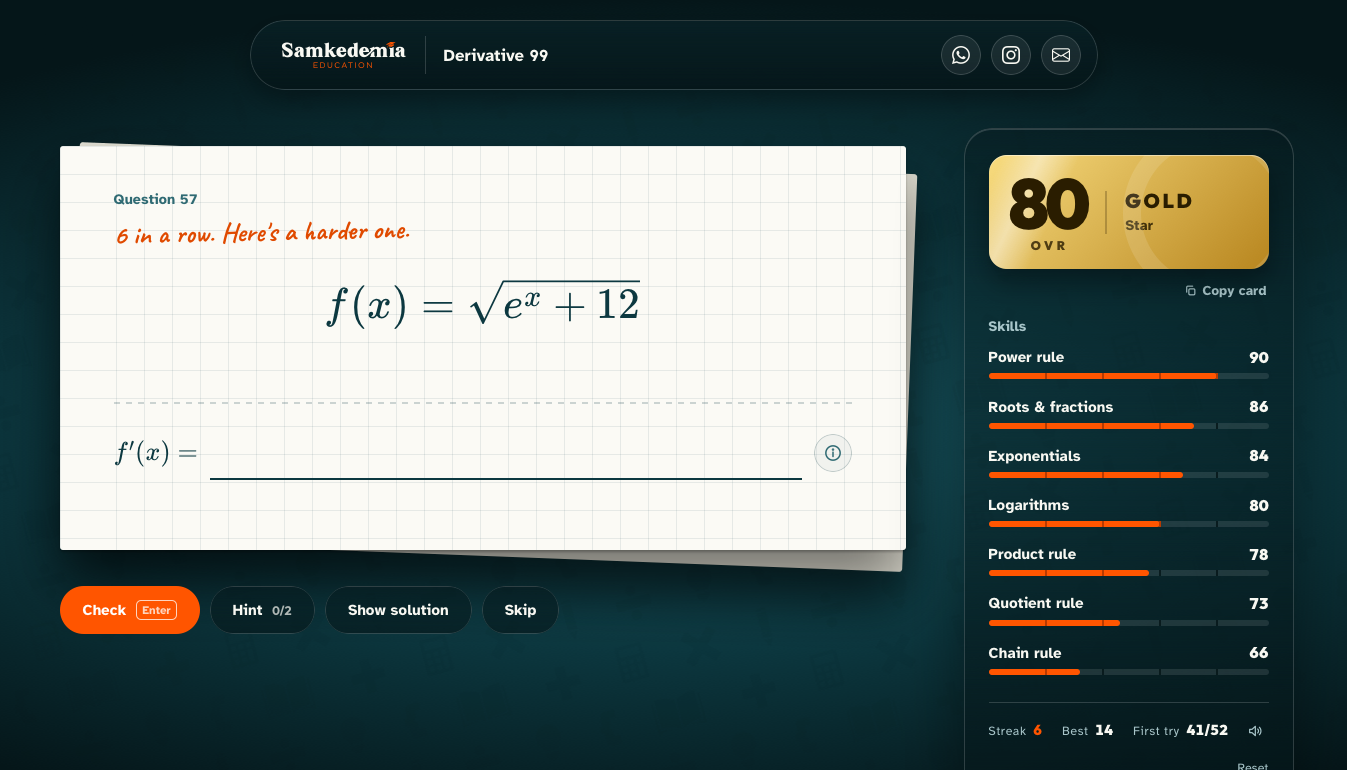
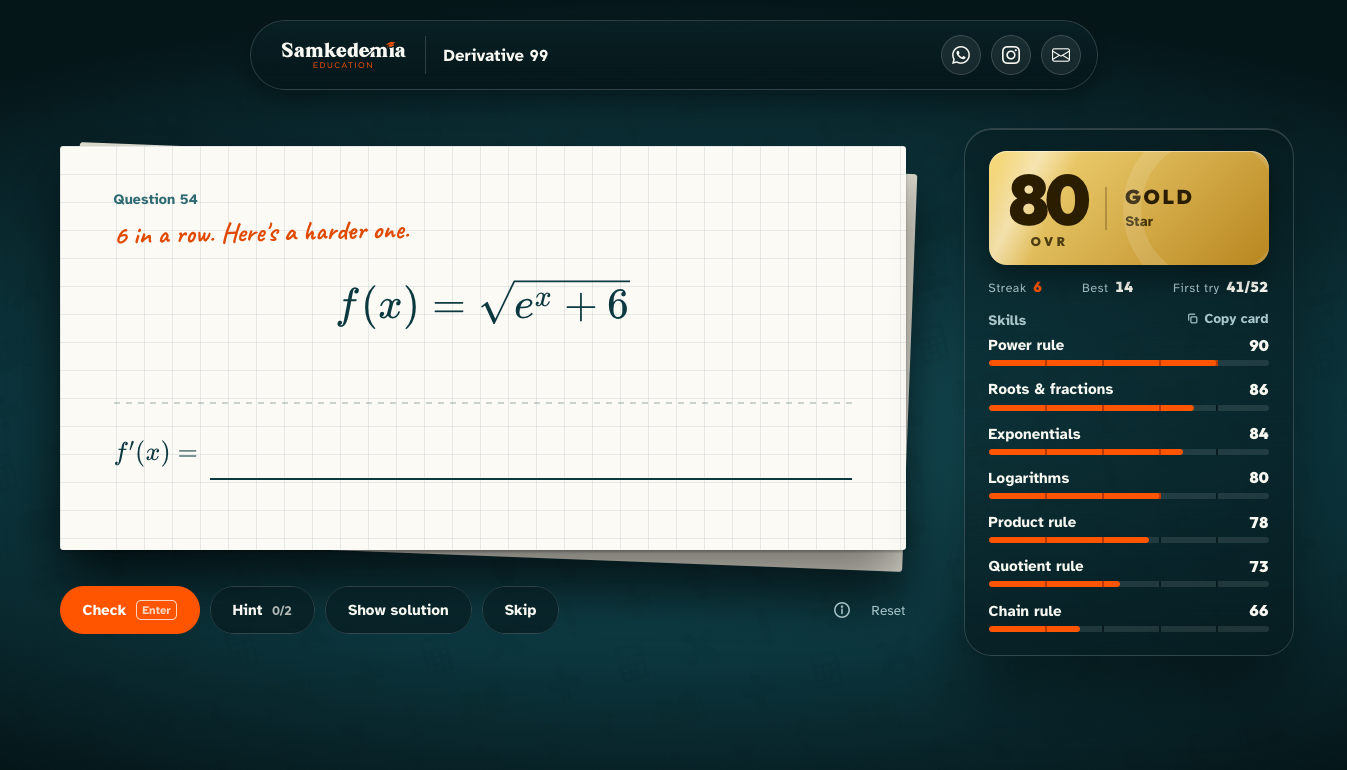
Derivative 99: remove sound, fit the side panel on one screen
Remove all sound and the toggle. Stats move under the card, Copy card
shares the Skills line, and how-to-type and Reset sit together beside
the buttons, so the panel fits a laptop screen without scrolling.

diff --git a/tools/derivatives/index.html b/tools/derivatives/index.html
@@ -103,11 +103,6 @@ body::after { left: 50%; top: 50%; width: 240vmax; height: 240vmax; margin: -120
 #ans::part(content) { overflow: visible; padding-block: 10px 6px; }
 #ans::part(container) { overflow: visible; }
 .preview { min-height: 1.9em; font: 400 .88rem/1.4 var(--font-body); padding-top: 10px; color: var(--ink-mid); }
-.info-btn { all: unset; box-sizing: border-box; flex: none; width: 38px; height: 38px; border-radius: 50%; display: flex; align-items: center; justify-content: center; cursor: pointer; color: var(--ink-mid); border: 1px solid rgba(12, 56, 64, .22); background: rgba(12, 56, 64, .04); transition: background-color .2s, border-color .2s, color .2s, transform .15s; }
-.info-btn:hover { background: rgba(12, 56, 64, .1); border-color: rgba(12, 56, 64, .45); color: var(--ink); }
-.info-btn:active { transform: scale(.94); }
-.info-btn:focus-visible { outline: 3px solid var(--orange-light); outline-offset: 2px; }
-.info-btn svg { width: 20px; height: 20px; stroke: currentColor; fill: none; stroke-width: 1.8; stroke-linecap: round; stroke-linejoin: round; }
 
 /* how-to-type popup, same pattern as the TI-84 tool */
 #help, #goat { position: fixed; inset: 0; z-index: 30; display: flex; align-items: center; justify-content: center; padding: 16px; background: rgba(5, 22, 25, .5); -webkit-backdrop-filter: blur(7px); backdrop-filter: blur(7px); opacity: 0; pointer-events: none; transition: opacity .2s; }
@@ -171,7 +166,7 @@ body::after { left: 50%; top: 50%; width: 240vmax; height: 240vmax; margin: -120
 :focus-visible { outline: 3px solid var(--orange-light); outline-offset: 3px; }
 
 /* ---- coach ---- */
-.coach { position: sticky; top: calc(env(safe-area-inset-top, 0px) + 20px); border-radius: 28px; padding: 26px 24px; background: linear-gradient(var(--glass-top), var(--glass-bottom)); border: 1.5px solid var(--glass-border); box-shadow: 0 40px 80px rgba(0, 0, 0, .45), inset 0 1px 0 rgba(255, 255, 255, .16); -webkit-backdrop-filter: blur(10px); backdrop-filter: blur(10px); }
+.coach { position: sticky; top: calc(env(safe-area-inset-top, 0px) + 20px); border-radius: 28px; padding: 22px 24px 16px; background: linear-gradient(var(--glass-top), var(--glass-bottom)); border: 1.5px solid var(--glass-border); box-shadow: 0 40px 80px rgba(0, 0, 0, .45), inset 0 1px 0 rgba(255, 255, 255, .16); -webkit-backdrop-filter: blur(10px); backdrop-filter: blur(10px); }
 @media (max-width: 1000px) { .coach { position: relative; top: 0; } }
 /* FIFA-style player card, coloured by tier */
 .pcard { --c1: #8a5530; --c2: #d99a62; --ink-card: #2b1606; position: relative; overflow: hidden; display: flex; align-items: center; gap: 18px; padding: 18px 20px; margin-bottom: 4px; border-radius: 18px; color: var(--ink-card);
@@ -195,15 +190,14 @@ body::after { left: 50%; top: 50%; width: 240vmax; height: 240vmax; margin: -120
 .skill .lv { position: relative; }
 .lv-gain { position: absolute; right: calc(100% + 8px); top: 0; font: 900 .95rem/1.1 var(--font-num); color: var(--orange-light); white-space: nowrap; opacity: 0; pointer-events: none; }
 /* the how-to-type button asks to be noticed on a first visit */
-.info-btn.nudge { animation: nudge 1.8s ease-in-out infinite; }
+.tool-btn.nudge { animation: nudge 1.8s ease-in-out infinite; }
 @keyframes nudge { 0%, 100% { box-shadow: 0 0 0 0 rgba(255, 85, 0, .45); } 60% { box-shadow: 0 0 0 9px rgba(255, 85, 0, 0); } }
-/* sound toggle */
-.sound-btn { all: unset; flex: none; width: 28px; height: 28px; border-radius: 50%; display: flex; align-items: center; justify-content: center; cursor: pointer; color: var(--quiet); transition: color .2s, background-color .2s; }
-.sound-btn:hover { color: var(--cream); background: rgba(255, 255, 255, .1); }
-.sound-btn:focus-visible { outline: 3px solid var(--orange-light); outline-offset: 2px; }
-.sound-btn svg { width: 16px; height: 16px; fill: none; stroke: currentColor; stroke-width: 1.8; stroke-linecap: round; stroke-linejoin: round; }
-.sound-btn .off, .sound-btn[aria-pressed="false"] .on { display: none; }
-.sound-btn[aria-pressed="false"] .off { display: inline; }
+/* how to type and reset, together beside the buttons */
+.tools { margin-left: auto; display: flex; align-items: center; gap: 6px; }
+.tool-btn { all: unset; box-sizing: border-box; flex: none; width: 36px; height: 36px; border-radius: 50%; display: flex; align-items: center; justify-content: center; cursor: pointer; color: var(--quiet); transition: color .2s, background-color .2s; }
+.tool-btn:hover { color: var(--cream); background: rgba(255, 255, 255, .1); }
+.tool-btn:focus-visible { outline: 3px solid var(--orange-light); outline-offset: 2px; }
+.tool-btn svg { width: 20px; height: 20px; fill: none; stroke: currentColor; stroke-width: 1.8; stroke-linecap: round; stroke-linejoin: round; }
 /* big moments: first visit, a new tier, a new skill */
 #moment { position: fixed; inset: 0; z-index: 31; display: flex; align-items: center; justify-content: center; padding: 16px; overflow: auto; background: rgba(3, 16, 19, .82); -webkit-backdrop-filter: blur(9px); backdrop-filter: blur(9px); opacity: 0; pointer-events: none; transition: opacity .25s; }
 #moment.on { opacity: 1; pointer-events: auto; }
@@ -254,19 +248,18 @@ body::after { left: 50%; top: 50%; width: 240vmax; height: 240vmax; margin: -120
 .pc-name { font: 900 .74rem/1.1 var(--font-num); letter-spacing: .12em; text-transform: uppercase; overflow: hidden; text-overflow: ellipsis; white-space: nowrap; }
 .pc-name:empty { display: none; }
 .ovr-gain { position: absolute; right: -14px; top: -10px; font: 900 1rem/1 var(--font-num); color: var(--ink-card); background: rgba(255, 255, 255, .55); border-radius: 999px; padding: 3px 7px; pointer-events: none; }
-.skills-head { margin-top: 18px !important; }
-.card-btn { all: unset; display: flex; align-items: center; gap: 6px; width: fit-content; margin: 10px 2px 0 auto; padding: 4px 0; cursor: pointer; font: 700 .85rem/1 var(--font-body); color: var(--quiet); transition: color .2s; }
+.card-btn { all: unset; display: flex; align-items: center; gap: 6px; width: fit-content; margin: 0; padding: 0; cursor: pointer; font: 700 .85rem/1 var(--font-body); color: var(--quiet); transition: color .2s; }
 .card-btn svg { width: 13px; height: 13px; flex: none; }
 .card-btn:hover { color: var(--cream); }
-.skills-head { display: flex; justify-content: space-between; align-items: baseline; margin: 20px 0 6px; gap: 10px; }
-.skill { display: grid; grid-template-columns: minmax(0, 1fr) auto; gap: 7px 10px; padding: 9px 0; color: var(--cream); }
+.skills-head { display: flex; justify-content: space-between; align-items: baseline; margin: 14px 0 2px; gap: 10px; }
+.skill { display: grid; grid-template-columns: minmax(0, 1fr) auto; gap: 6px 10px; padding: 7px 0; color: var(--cream); }
 .skill .nm { font: 700 .95rem/1.2 var(--font-body); display: flex; align-items: baseline; gap: 8px; min-width: 0; }
 .skill .nm i { font: 700 1.05rem/1 var(--font-hand); font-style: normal; color: var(--orange-light); }
 .skill .lv { font: 900 1rem/1.1 var(--font-num); color: var(--cream); font-variant-numeric: tabular-nums; }
 .skill.locked { color: var(--quiet); }
 .skill.locked .nm, .skill.locked .lv { opacity: .55; }
 .skill .lk { width: 13px; height: 13px; flex: none; align-self: center; }
-.lockhint { grid-column: 1 / -1; font-size: .74rem; color: var(--quiet); margin-top: -3px; }
+.lockhint { grid-column: 1 / -1; font-size: .72rem; color: var(--quiet); margin-top: -4px; }
 .skill.unlocking .nm { animation: unlockName 1.3s .5s both; }
 @keyframes unlockName { 0% { color: var(--quiet); } 35% { color: #ff8a3d; } 100% { color: var(--cream); } }
 .skill .lk.out { animation: lockOut .7s .35s both; }
@@ -277,17 +270,15 @@ body::after { left: 50%; top: 50%; width: 240vmax; height: 240vmax; margin: -120
 .bar > span { display: block; height: 100%; width: 0; border-radius: 3px; background: var(--orange); transition: width .9s cubic-bezier(.2, .8, .2, 1); }
 .bar i { position: absolute; top: 0; bottom: 0; width: 2px; margin-left: -1px; background: var(--ground-edge); opacity: .85; }
 .bar i.hit { background: #b83a00; opacity: 1; }
-.coach-foot { margin-top: 18px; padding-top: 14px; border-top: 1px solid var(--glass-border); display: flex; justify-content: space-between; align-items: center; flex-wrap: wrap; gap: 8px 12px; font-size: .78rem; color: var(--quiet); }
-.stats { flex: 1; display: flex; flex-wrap: wrap; justify-content: space-between; gap: 4px 14px; letter-spacing: .04em; }
+.stats { display: flex; margin-top: 14px; font-size: .78rem; color: var(--quiet); flex-wrap: wrap; justify-content: space-between; gap: 4px 14px; letter-spacing: .04em; }
 .stats b { display: inline-block; font: 900 .9rem/1 var(--font-num); color: var(--cream); margin-left: 3px; font-variant-numeric: tabular-nums; }
 .stats b.hot { color: var(--orange); }
 .confirm { display: inline-flex; align-items: center; gap: 10px; flex-wrap: wrap; color: var(--cream); font-weight: 700; font-size: .95rem; }
 #next.primary { order: -1; }
-.reset-row { margin-top: 10px; text-align: right; }
-.reset-link { all: unset; cursor: pointer; font: 400 .78rem/1 var(--font-body); color: var(--quiet); }
+.reset-link { all: unset; cursor: pointer; margin-left: 6px; font: 400 .85rem/1 var(--font-body); color: var(--quiet); }
 .reset-link:hover { color: var(--cream); text-decoration: underline; }
-.reset-row .confirm { justify-content: flex-end; gap: 6px; flex-wrap: nowrap; font-size: .8rem; white-space: nowrap; }
-.reset-row .btn { padding: 7px 10px; font-size: .76rem; }
+.tools .confirm { justify-content: flex-end; gap: 6px; flex-wrap: nowrap; font-size: .8rem; white-space: nowrap; }
+.tools .btn { padding: 7px 10px; font-size: .76rem; }
 .btn.danger { background: transparent; border-color: var(--orange); color: var(--orange); }
 
 .toast { position: fixed; right: 20px; bottom: calc(env(safe-area-inset-bottom, 0px) + 20px); z-index: 10; display: grid; grid-template-columns: 64px minmax(0, 1fr); gap: 14px; align-items: center; max-width: min(340px, calc(100vw - 40px)); padding: 14px 20px 14px 14px; border-radius: 20px; background: linear-gradient(var(--glass-top), var(--glass-bottom)), var(--ground-shade); border: 1.5px solid var(--glass-border); box-shadow: 0 30px 60px rgba(0, 0, 0, .5), 0 0 60px rgba(255, 85, 0, .25); }
@@ -335,7 +326,6 @@ body::after { left: 50%; top: 50%; width: 240vmax; height: 240vmax; margin: -120
           <div class="answer-line">
             <span class="lbl" id="flabel"></span>
             <math-field id="ans" aria-label="Your derivative"></math-field>
-            <button class="info-btn" id="infoBtn" type="button" title="How to type" aria-label="How to type"><svg viewBox="0 0 24 24"><circle cx="12" cy="12" r="8.6"/><path d="M12 11v5.2"/><circle cx="12" cy="7.9" r=".6"/></svg></button>
           </div>
           <div class="preview" id="preview"></div>
 
@@ -355,6 +345,14 @@ body::after { left: 50%; top: 50%; width: 240vmax; height: 240vmax; margin: -120
         <button class="btn" id="hint">Hint <span class="count" id="hintCount">0/2</span></button>
         <button class="btn" id="solution">Show solution</button>
         <button class="btn" id="next">Skip</button>
+        <div class="tools">
+          <button class="tool-btn" id="infoBtn" type="button" title="How to type" aria-label="How to type"><svg viewBox="0 0 24 24"><circle cx="12" cy="12" r="8.6"/><path d="M12 11v5.2"/><circle cx="12" cy="7.9" r=".6"/></svg></button>
+          <button class="reset-link" id="reset">Reset</button>
+          <span class="confirm" id="confirm" hidden>Reset progress?
+          <button class="btn danger" id="resetYes">Yes, reset</button>
+          <button class="btn" id="resetNo">Cancel</button>
+        </span>
+        </div>
       </div>
     </div>
 
@@ -371,25 +369,16 @@ body::after { left: 50%; top: 50%; width: 240vmax; height: 240vmax; margin: -120
           <span class="pc-name" id="pcName"></span>
         </div>
       </div>
-      <button class="card-btn" id="cardBtn" type="button" data-copy><svg viewBox="0 0 24 24" fill="none" stroke="currentColor" stroke-width="2.2" stroke-linecap="round" stroke-linejoin="round" aria-hidden="true"><rect x="9" y="9" width="11" height="11" rx="2"/><path d="M5 15V6a2 2 0 0 1 2-2h9"/></svg><span>Copy card</span></button>
-      <div class="skills-head">
-        <span class="label">Skills</span>
-        
-      </div>
-      <div id="skills"></div>
-      <div class="coach-foot">
-        <div class="stats" id="stats">
+      <div class="stats" id="stats">
           <span>Streak <b id="streak">0</b></span>
           <span>Best <b id="best">0</b></span>
           <span>First try <b id="firsts">0/0</b></span>
         </div>
-        <button class="sound-btn" id="sound" type="button" aria-label="Sound" title="Sound" aria-pressed="true"><svg viewBox="0 0 24 24" aria-hidden="true"><path d="M4 9.5v5h3.6L12.5 19V5L7.6 9.5z"/><path class="on" d="M16 9a4.2 4.2 0 0 1 0 6M18.6 6.4a8 8 0 0 1 0 11.2"/><path class="off" d="m16.5 9.5 5 5m0-5-5 5"/></svg></button>
+      <div class="skills-head">
+        <span class="label">Skills</span>
+        <button class="card-btn" id="cardBtn" type="button" data-copy><svg viewBox="0 0 24 24" fill="none" stroke="currentColor" stroke-width="2.2" stroke-linecap="round" stroke-linejoin="round" aria-hidden="true"><rect x="9" y="9" width="11" height="11" rx="2"/><path d="M5 15V6a2 2 0 0 1 2-2h9"/></svg><span>Copy card</span></button>
       </div>
-      <div class="reset-row"><button class="reset-link" id="reset">Reset</button>
-        <span class="confirm" id="confirm" hidden>Reset progress?
-          <button class="btn danger" id="resetYes">Yes, reset</button>
-          <button class="btn" id="resetNo">Cancel</button>
-        </span></div>
+      <div id="skills"></div>
     </aside>
   </main>
 </div>
@@ -1508,7 +1497,6 @@ function tierReveal(apply, tier) {
     apply();
     moment.dataset.tier = tier;
     openMoment({ label: 'New card', title: cap(tier) + ' card', stage: cardFace(tier, o, title, safeName()), wait: 900 });
-    sfx('tier');
     if (reduce) return;
     anim($('mWash'), [{ clipPath: 'circle(0% at 50% 46%)' }, { clipPath: 'circle(130% at 50% 46%)' }], { duration: 800, easing: 'cubic-bezier(.5, 0, .2, 1)' });
     anim($('mShine'), [{ transform: 'translateX(-120%)' }, { transform: 'translateX(120%)' }], { duration: 1500, delay: 600, easing: 'ease-in-out', fill: 'none' });
@@ -1525,7 +1513,6 @@ const RULES = {
 };function unlockReveal(ids) {
   setTimeout(() => showMoment(() => {
     openMoment({ label: ids.length > 1 ? 'New skills unlocked' : 'New skill unlocked', title: ids.map(id => NAME[id]).join(' & '), text: ids.map(id => RULES[id].note).join(' '), rules: ids.flatMap(id => RULES[id].tex) });
-    sfx('unlock');
   }), 800);
 }
 // a new tier: the card flips over and comes back in its new colour
@@ -1616,56 +1603,6 @@ function toast(label, text) {
   toast.timer = setTimeout(() => anim(t, [{ opacity: 1, transform: 'none' }, { opacity: 0, transform: 'translateY(20px)' }], { duration: 300 }).then(() => { t.hidden = true; }), 3600);
 }
 
-// ---------- sounds: made in the browser, no audio files ----------
-const SOUND_KEY = STORE + '-sound';
-let soundOn = true, audio = null;
-try { soundOn = localStorage.getItem(SOUND_KEY) !== 'off'; } catch (e) {}
-// browsers only allow audio after the first key press or click
-let master = null;
-const wakeAudio = () => {
-  try {
-    if (!audio) {
-      audio = new (window.AudioContext || window.webkitAudioContext)();
-      const comp = audio.createDynamicsCompressor(); master = audio.createGain(); master.gain.value = 2;
-      master.connect(comp); comp.connect(audio.destination);
-      // Safari only starts a context that plays something inside the key press or click
-      const blip = audio.createBufferSource(); blip.buffer = audio.createBuffer(1, 1, 22050); blip.connect(audio.destination); blip.start(0);
-    }
-    if (audio.state !== 'running') audio.resume();
-  } catch (e) {}
-};
-['keydown', 'keyup', 'pointerdown', 'pointerup', 'click'].forEach(t => addEventListener(t, wakeAudio, true));
-function tone(freq, at, len, vol = .13, type = 'triangle', to = 0) {
-  const t = audio.currentTime + at, o = audio.createOscillator(), g = audio.createGain();
-  o.type = type; o.frequency.setValueAtTime(freq, t);
-  if (to) o.frequency.exponentialRampToValueAtTime(to, t + len);
-  g.gain.setValueAtTime(0.0001, t); g.gain.exponentialRampToValueAtTime(vol, t + .012); g.gain.exponentialRampToValueAtTime(0.0001, t + len);
-  o.connect(g); g.connect(master); o.start(t); o.stop(t + len + .02);
-}
-const run = (notes, gap, len, vol) => notes.forEach((f, i) => tone(f, i * gap, len, vol));
-const SFX = {
-  // two notes that climb a semitone with every answer in a row
-  right: (s = 1) => { const up = Math.pow(2, Math.min(Math.max(s - 1, 0), 12) / 12); run([587 * up, 880 * up], .085, .2, .12); },
-  wrong: () => { tone(190, 0, .24, .24, 'sine', 85); },
-  slip: () => { tone(300, 0, .16, .12, 'sine', 210); },
-  shield: () => { tone(1320, 0, .22, .09); tone(1980, .05, .3, .06); },
-  streak: () => run([659, 880, 1109, 1319], .07, .24, .11),
-  unlock: () => run([523, 659, 784, 1047], .1, .42, .12),
-  tier: () => { run([523, 659, 784], .09, .3, .11); [1047, 1319, 1568].forEach(f => tone(f, .32, .9, .08)); tone(2093, .42, 1, .03, 'sine'); },
-  goat: () => { run([523, 659, 784, 1047, 1319, 1568], .09, .32, .11); [1047, 1319, 1568, 2093].forEach(f => tone(f, .6, 1.5, .07)); }
-};
-function sfx(name, arg) {
-  if (!soundOn || !audio) return;
-  const go = () => { try { SFX[name](arg); } catch (e) {} };
-  if (audio.state === 'running') go(); else audio.resume().then(go, () => {});
-}
-const showSound = () => $('sound').setAttribute('aria-pressed', soundOn);
-$('sound').addEventListener('click', () => {
-  soundOn = !soundOn; showSound();
-  try { localStorage.setItem(SOUND_KEY, soundOn ? 'on' : 'off'); } catch (e) {}
-  sfx('right');
-});
-showSound();
 
 // ---------- flow ----------
 // r: 1 clean first try, 0.45 solved after help, 0 wrong; grace: a slip fixed on the retry
@@ -1674,7 +1611,6 @@ function resolve(r, grace = false) {
   play.resolved = true;
   if (grace) r = 1;
   const prev = { ...st.R }, prevBest = st.best, type = st.cur.type, d0 = diff(type), used = st.cur.skills.filter(isOpen);
-  let shieldUsed = false;
   used.forEach((s, i) => {
     const E = 1 / (1 + Math.exp(-6 * (st.R[s] - d0 + 0.1)));
     const pace = r - E > 0 ? PACE(st.R[s]) : LOSS;
@@ -1690,7 +1626,7 @@ function resolve(r, grace = false) {
     if (st.streak > prevBest && prevBest >= 3) st.record = true;
     if (st.streak % 5 === 0 && !st.shield) st.shield = true;
   }
-  else if (st.shield && st.streak > 0) { st.shield = false; shieldUsed = play.saved = true; }   // the shield takes the hit, the streak lives
+  else if (st.shield && st.streak > 0) { st.shield = false; play.saved = true; }   // the shield takes the hit, the streak lives
   else { st.streak = 0; st.record = false; }
   if (r < 1 && !grace && !st.cur.twin && st.queue.length < 2 && !st.queue.some(q => q.id === type.id)) st.queue.push({ id: type.id, due: st.n + 4 });
   const opened = checkUnlocks(), ovrNow = overall(st.R), tierIdx = TIERS.indexOf(tierOf(ovrNow));
@@ -1698,9 +1634,6 @@ function resolve(r, grace = false) {
   if (play.freshTier) st.peak = tierIdx;
   const bigTier = play.freshTier;
   save(); renderCoach(prev, opened);
-  if (r > 0) sfx('right', st.streak);
-  if (r === 1 && !grace && [5, 10, 20, 30].includes(st.streak)) setTimeout(() => sfx('streak'), 240);
-  if (shieldUsed) setTimeout(() => sfx('shield'), 180);
   const newTier = tierOf(overall(st.R));
   if (overall(st.R) >= 99 && overall(prev) < 99) setTimeout(showGoat, 1000);
   else {
@@ -1751,7 +1684,7 @@ function check(typed) {
   const s = typeof typed === 'string' ? typed : answerText();
   if (!s && play.shown) { nextProblem(); return; }
   if (!s) { $('ans').focus(); anim($('ans'), [{ transform: 'translateX(0)' }, { transform: 'translateX(6px)' }, { transform: 'translateX(0)' }], { duration: 200 }); return; }
-  let a; try { a = parse(s); } catch (e) { verdict(false, "Can't read that yet.", e.message); sfx('slip'); offerHelp(); return; }
+  let a; try { a = parse(s); } catch (e) { verdict(false, "Can't read that yet.", e.message); offerHelp(); return; }
   if (compare(a, st.cur.d)) {
     play.solved = true; $('ans').classList.add('done'); $('infoBtn').classList.remove('nudge'); renderActions();
     const fixedSlip = play.grace && !play.resolved && play.attempts === 1 && play.hints === 0 && !play.shown;
@@ -1768,7 +1701,6 @@ function check(typed) {
   const slip = !bug || bug === 'sign' || bug === 'factor';
   if (play.attempts === 1 && !play.hints && slip) { play.grace = true; verdict(false, msg[0], bug ? msg[1] : 'Check it and try again. This one is free.'); }
   else { if (!play.hints) resolve(0); verdict(false, msg[0], msg[1]); }
-  sfx(slip && play.grace && !play.resolved ? 'slip' : 'wrong');
   offerHelp();
   anim($('stack'), [0, -10, 8, -5, 3, 0].map(x => ({ transform: `translateX(${x}px)` })), { duration: 420, easing: 'ease-out' });
 }
@@ -1960,7 +1892,7 @@ const setGoat = on => goat.classList.toggle('on', on);
 goat.addEventListener('click', e => { if (e.target === goat || e.target.closest('.x')) setGoat(false); });
 addEventListener('keydown', e => { if (e.key === 'Escape' && goat.classList.contains('on')) setGoat(false); });
 function showGoat() {
-  setGoat(true); sfx('goat');
+  setGoat(true);
   if (!reduce) { confetti(); setTimeout(() => confetti(true), 650); setTimeout(() => confetti(true), 1500); }
   anim(goat.querySelector('.goat-badge'), [{ transform: 'scale(.2) rotate(-25deg)', opacity: 0 }, { transform: 'scale(1.25) rotate(8deg)', opacity: 1, offset: .5 }, { transform: 'scale(.95) rotate(-3deg)', offset: .75 }, { transform: 'none', opacity: 1 }], { duration: 1100, easing: SPRING });
   // the goat stays hidden until its entrance, grows in gently, and only then starts bobbing
